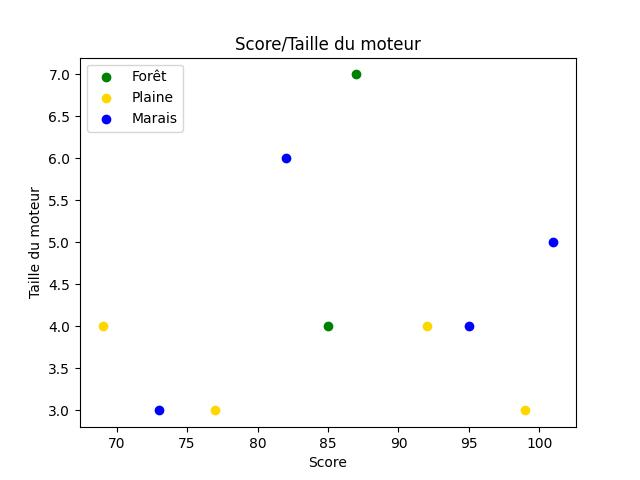
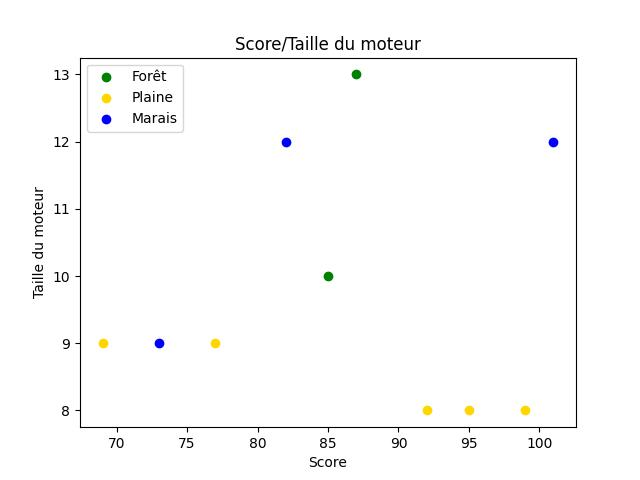
Draw graph

diff --git a/stats/service/player_game/engine.py b/stats/service/player_game/engine.py
@@ -25,16 +25,19 @@ class EngineService:
 
     def compute_best_engine(self) -> (Habitat, int):
         forest_engine_size = self.forest_repartition.browns
-        forest_engine_size += self.plain_repartition.blue_pinks
-        forest_engine_size += self.swamp_repartition.blue_pinks
+        forest_engine_size += self.forest_repartition.all
+        forest_engine_size += self.plain_repartition.others
+        forest_engine_size += self.swamp_repartition.others
 
         plain_engine_size = self.plain_repartition.browns
-        plain_engine_size += self.forest_repartition.blue_pinks
-        plain_engine_size += self.swamp_repartition.blue_pinks
+        plain_engine_size += self.plain_repartition.all
+        plain_engine_size += self.forest_repartition.others
+        plain_engine_size += self.swamp_repartition.others
 
         swamp_engine_size = self.swamp_repartition.browns
-        swamp_engine_size += self.forest_repartition.blue_pinks
-        swamp_engine_size += self.plain_repartition.blue_pinks
+        swamp_engine_size += self.swamp_repartition.all
+        swamp_engine_size += self.forest_repartition.others
+        swamp_engine_size += self.plain_repartition.others
 
         if forest_engine_size >= max(plain_engine_size, swamp_engine_size):
             return self.create_engine(Habitat.FOREST, forest_engine_size)
@@ -50,15 +53,15 @@ class EngineService:
 
     def compute_habitat_power_color_repartition(self, habitat) -> Repartition:
         browns = 0
-        blue_pinks = 0
+        others = 0
         birds = self.player_game.birds.filter(habitat=habitat)
         for bird in birds:
             color = BirdService(bird).get_power_color()
             if color == Color.BROWN:
                 browns += 1
-            elif color in [Color.BLUE, Color.PINK]:
-                blue_pinks += 1
-        return Repartition(browns, blue_pinks)
+            elif color in [Color.BLUE, Color.PINK, Color.WHITE]:
+                others += 1
+        return Repartition(browns, others, len(birds))
 
     @staticmethod
     def create_engine(habitat: Habitat, engine_size: int) -> Engine:
@@ -71,6 +74,7 @@ class EngineService:
 
 
 class Repartition:
-    def __init__(self, browns: int, blue_pinks: int):
+    def __init__(self, browns: int, others: int, all: int):
         self.browns = browns
-        self.blue_pinks = blue_pinks
+        self.others = others
+        self.all = all

diff --git a/stats/service/graph/score_bird_number_habitat.py b/stats/service/graph/score_bird_number_habitat.py
@@ -1,0 +1,51 @@
+import random
+
+import matplotlib.pyplot as plt
+
+from stats.constants.habitat import Habitat
+
+
+class BirdNumberHabitatGraphService:
+    filename = 'stats/files/graph/bird_number_habitat.jpg'
+
+    def __init__(self, display: bool):
+        from stats.repositories.player_games import PlayerGameRepository
+
+        self.display = display
+        self.player_games = PlayerGameRepository.all()
+        self.fig, self.ax = plt.subplots()
+
+        self.compute_data()
+        self.add_options()
+        self.result()
+
+    @staticmethod
+    def add_options():
+        plt.xlabel('Score')
+        plt.ylabel("Nombre total d'oiseau")
+        plt.legend(loc='upper left')
+        plt.title("Score/Nombre d'oiseau")
+
+    def result(self):
+        plt.savefig(self.filename)
+        if self.display:
+            plt.show()
+
+    def compute_data(self):
+        self.draw_games(Habitat.FOREST, 'green', 'Forêt')
+        self.draw_games(Habitat.PLAIN, 'gold', 'Plaine')
+        self.draw_games(Habitat.SWAMP, 'blue', 'Marais')
+
+    def draw_games(self, habitat, color, label):
+        scores = []
+        bird_numbers = []
+        for player_game in self.player_games:
+            scores.append(self.approximate_score(player_game.score))
+            birds = player_game.birds.filter(habitat=habitat)
+            bird_numbers.append(len(birds))
+        self.ax.scatter(scores, bird_numbers, color=color, label=label)
+
+    @staticmethod
+    def approximate_score(score):
+        epsilon = random.randint(-10, 10)/100
+        return score + epsilon

diff --git a/stats/service/graph/score_bird_number.py b/stats/service/graph/score_bird_number.py
@@ -1,0 +1,37 @@
+import matplotlib.pyplot as plt
+
+from stats.constants.habitat import Habitat
+
+
+class BirdNumberGraphService:
+    filename = 'stats/files/graph/bird_number.jpg'
+
+    def __init__(self, display: bool):
+        from stats.repositories.player_games import PlayerGameRepository
+
+        self.display = display
+        self.player_games = PlayerGameRepository.all()
+        self.fig, self.ax = plt.subplots()
+
+        self.compute_data()
+        self.add_options()
+        self.result()
+
+    @staticmethod
+    def add_options():
+        plt.xlabel('Score')
+        plt.ylabel("Nombre total d'oiseau")
+        plt.title("Score/Nombre d'oiseau")
+
+    def result(self):
+        plt.savefig(self.filename)
+        if self.display:
+            plt.show()
+
+    def compute_data(self):
+        scores = []
+        bird_number = []
+        for player_game in self.player_games:
+            scores.append(player_game.score)
+            bird_number.append(len(player_game.birds.all()))
+        self.ax.scatter(scores, bird_number)

diff --git a/stats/management/commands/graph.py b/stats/management/commands/graph.py
@@ -1,0 +1,12 @@
+from django.core.management.base import BaseCommand
+
+from stats.service.graph.engine_score import EngineGraphService
+from stats.service.graph.score_bird_number import BirdNumberGraphService
+from stats.service.graph.score_bird_number_habitat import BirdNumberHabitatGraphService
+
+
+class Command(BaseCommand):
+    def handle(self, *args, **options):
+        EngineGraphService(False)
+        BirdNumberGraphService(False)
+        BirdNumberHabitatGraphService(False)

diff --git a/stats/management/commands/do_stuff.py b/stats/management/commands/do_stuff.py
@@ -1,9 +1,8 @@
 from django.core.management.base import BaseCommand
 
-from stats.models import Game
+from stats.service.graph.score_bird_number_habitat import BirdNumberHabitatGraphService
 
 
 class Command(BaseCommand):
     def handle(self, *args, **options):
-        player_game = Game.objects.filter(winner=None)
-        player_game.delete()
+        BirdNumberHabitatGraphService(True)

diff --git a/stats/service/graph/engine_score.py b/stats/service/graph/engine_score.py
@@ -36,7 +36,6 @@ class EngineGraphService:
         swamp_engines = self.player_games.filter(engine__habitat=Habitat.SWAMP)
         self.draw_games(swamp_engines, 'blue', 'Marais')
 
-
     def draw_games(self, player_games, color, label):
         scores = []
         engine_sizes = []
